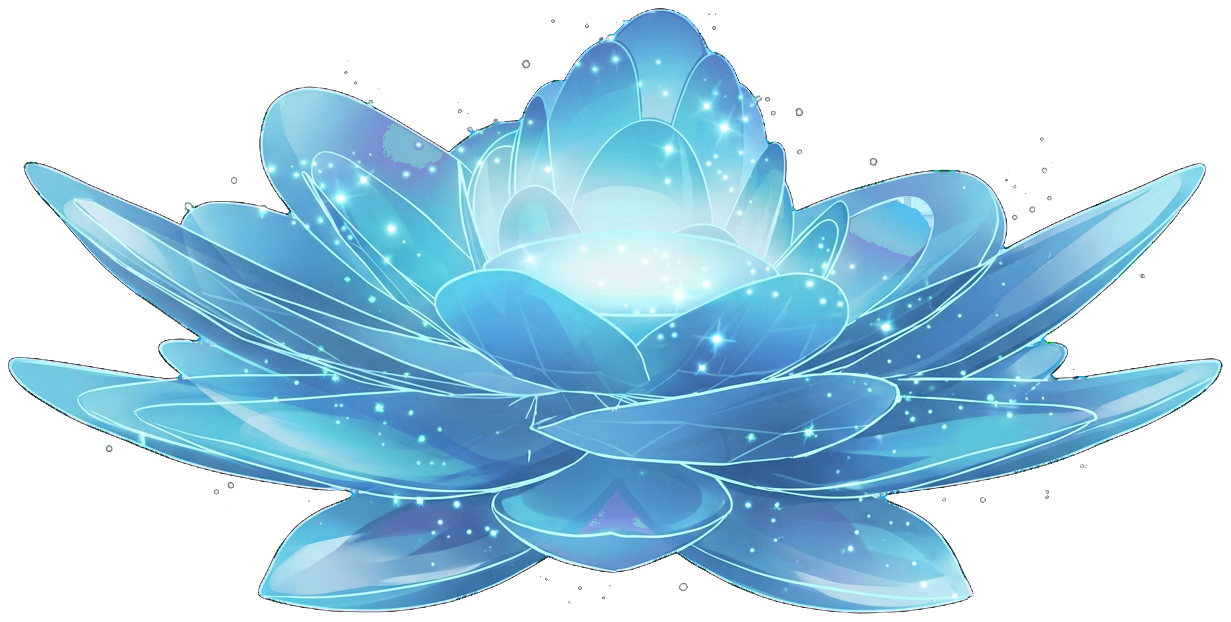
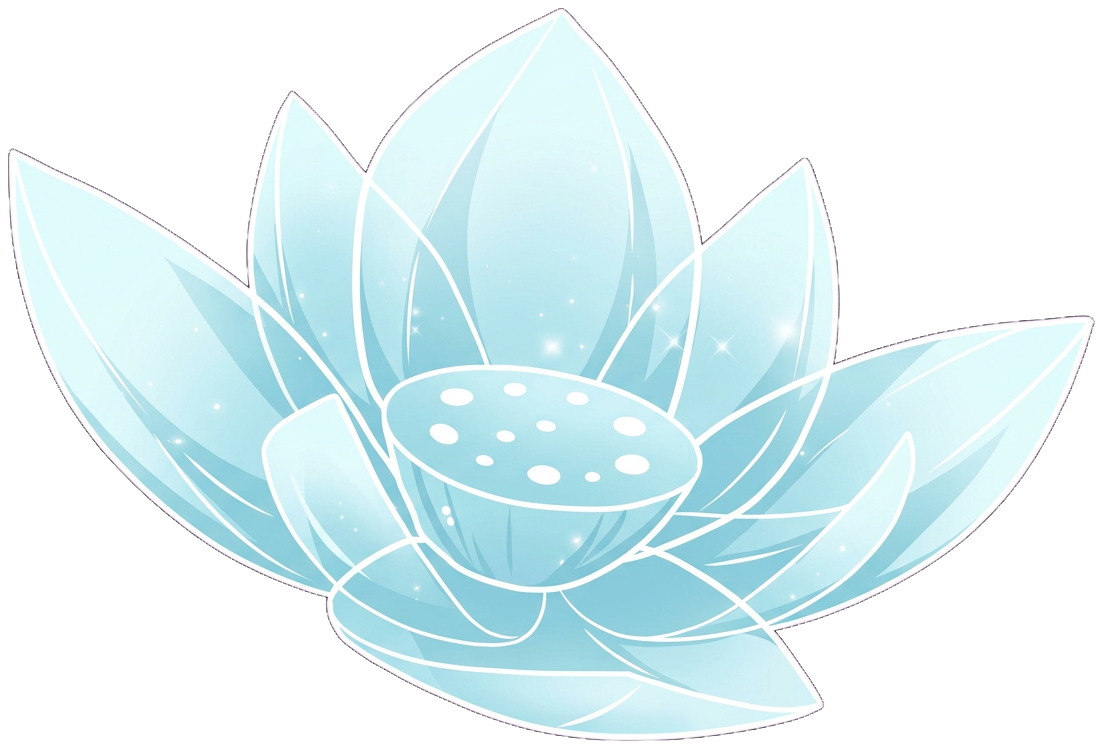
4A 核对：火种重画、洪辰雷神降临、心魔/狮王/天妖凰结论

diff --git a/dev/design/Boss形态清单_v2.md b/dev/design/Boss形态清单_v2.md
@@ -8,7 +8,7 @@
 | Boss | 漫画 | 形态 | 状态 |
 |---|---|---|---|
 | 暴雪魔猿 | 魔兽山脉 | 1 形态 e_ape（Boss 版） | ✅ |
-| 紫晶翼狮王 | 魔兽山脉 | 1 基础 b_lion；🔍 紫晶双翼腾空形态 | ✅ / 🔍 |
+| 紫晶翼狮王 | 魔兽山脉（27） | 1 基础 b_lion（本就带双翼）；27-04 暴走＝同一形态加紫晶火光 → 做特效，不另画 | ✅ |
 | 穆蛇（两战） | 25–30 | 1 人形 mushe | ✅ |
 | 加列奥 / 穆力 / 赫蒙 | 前期 | 各 1 人形 | ✅ |
 
@@ -17,7 +17,7 @@
 |---|---|---|---|
 | 海波东（冰封解除后） | — | 1 人形 haibodong_true | ✅ |
 | 美杜莎女王 | 47 / 80 / 88 / 137 | 3：蛇人女王 medusa_boss、人形 medusa、七彩吞天蟒 b_python | ✅✅✅ |
-| 青莲地心火 | 塔戈尔沙漠 | 🔍 火种形态（用户要求按漫画重画） | ⬜ |
+| 青莲地心火 | 塔戈尔沙漠（49） | 火种 b_fire_lotus 按 49-11 重画（杯状冰晶莲、圆莲蓬） | ✅ 待审 |
 | 古河 | — | 1 人形 guhe | ✅ |
 | 云山 | 164 前后 | 1 人形 b_yunshan + 魂殿黑影特效 fx_hundian_shadow（用户A） | ✅ |
 | 纳兰嫣然（三年之约） | — | 1 人形 nalan | ✅ |
@@ -26,7 +26,7 @@
 | Boss | 漫画 | 形态 | 状态 |
 |---|---|---|---|
 | 陨落心炎 | 122 / 146 / 152 | 3：塔底火种、金色火焰蛇龙、暴走火焰巨兽 | ✅✅✅ |
-| 心魔 | 🔍 | 漫画是否有此战待核对；无则删除 | 🔍 |
+| 心魔 | — | 已翻 121/122/126/152/156/157/165/168/193：漫画无“心魔”实体战（旧清单为自创黑化萧炎）→ 建议删除 | ❌ 待确认 |
 
 ## 第四章 · 黑角域 / 丹会前后
 | Boss | 漫画 | 形态 | 状态 |
@@ -39,7 +39,7 @@
 ## 第五章 · 中州
 | Boss | 漫画 | 形态 | 状态 |
 |---|---|---|---|
-| 洪辰 | 221 | 1 人形 hongchen；🔍 漫画“雷神降临”形态 | ✅ / 🔍 |
+| 洪辰 | 221–222 | 1 人形 hongchen；2 “雷神降临” hongchen_thunder（222-12/13/18：赤膊、胸前粉色雷纹、破袍、白腰带）；天雷锤另画；灭雷锤兽(222-21)做特效 | ✅ / ✅ 待审 |
 | 晨云 | 224 | 1 人形 chenyun | ✅ |
 | 洪天啸 | 224–228 | 1 人形 hongtianxiao | ✅ |
 | 费天（两战） | 229 | 1 人形 feitian | ✅ |
@@ -47,7 +47,7 @@
 | 翎泉 | 264 | 1 人形 lingquan | ✅ |
 | 曹颖（丹会） / 木骨 | — | 各 1 人形 | ✅ |
 | 摘星老鬼（三战） | — | 1 人形 zhaixing | ✅ |
-| 天妖凰二长老 | — | 🔍 是否已有对应立绘待查 | 🔍 |
+| 天妖凰二长老 | 319 | 无对应立绘。319 出现天妖凰族：白发红纹男(319-04，与萧炎交手)、红额印白须老者、黄袍长者二人(319-20)、白发头环女(疑凤清儿)、虎人/狼人 → 需整段扫 316–325 定身份 | ⬜ 待扫 |
 | 墨羽（九天尊，三战） | — | 1 人形 moyu | ✅ |
 | 花锦 / 妖花 / 蜃楼鬼尊 | 327 | 各 1 人形 huajin / yaohua / shenlou | ✅ |
 | 青厌（古龙岛偷袭） | 333 | 1 人形 qingyan；阈值→天妖傀碎裂剧情（用户4A） | ✅ |
@@ -90,7 +90,7 @@
 加列毕、穆力、狼王（已删）、穆蛇、纳兰嫣然、韩枫、魂殿护法、风尊者/剑尊者、天冥、雷尊者、费天、冰河、天蛇、各天尊、魂灭生、九幽地冥蟒、魂天帝“帝境法相”。
 
 ## 待定 B：需翻漫画核对的形态（🔍）
-紫晶翼狮王双翼、青莲地心火火种、心魔一战是否存在、洪辰雷神降临、天妖凰二长老立绘。
+已于 2026-09-28 核对完毕，结果见上表各行。
 
 ## 待定 C：尚未确认漫画里有没有这场战斗
 范老（血宗）、凤清儿（两战）、魂玉、人和子、石天等，见《萧炎战斗清单》⚠ 行，逐话扫漫画确认后再决定是否为 Boss。

diff --git a/dev/design/漫画复核进度.md b/dev/design/漫画复核进度.md
@@ -267,7 +267,9 @@
 | 青厌（古龙岛偷袭Boss，新） | qingyan | r122：333-08/11/18；墨绿长卷发、浅绿分叉龙角、尖耳、额绿宝石，蓝色高领项圈，白色羽边露肩短裙、腰侧蓝饰，蓝色长袖套，蓝色过膝靴；Boss（用户4A） | ✅ 用户通过 |
 | 祁幽（东龙岛长老，新） | qiyou | r122：332-16/17；棕肤、暗红分叉龙角、垂膝暗红褐长发、八字胡，紫色宽袖长袍、白色长披带红菱纹、红鳞纹高领金边、白鞋；剧情NPC（用户5A） | ✅ 用户通过 |
 | 西龙岛使者 XIAO AO（新） | xiaoao | r123：332-23 字幕“西龙岛 XIAO AO”(原著未名)；红角、背头短发、面疤、八字胡短须，红色龙鳞全身甲、紫色腰带、灰裤红胫甲；剧情NPC（用户5A） | ✅ 用户通过 |
-| 蛮岩（南龙岛长老，新） | manyan | r123：332-23 字幕“南龙岛 MAN YAN”；灰肤、灰背头、尖角、下巴黑纹，黑毛皮披肩、胸前龙头骨饰、深蓝金边上衣、蓝灰刺护臂、金腰饰+獠牙项链；下半身漫画未画→传统蛮族甲裙、毛边靴；剧情NPC（用户5A） | ✅ 用户通过 |
+| 蛮岩（南龙岛长老，新） | manyan | r123：332-23 字幕“南龙岛 MAN YAN”；灰肤、灰背头、尖角、下巴黑纹，黑毛皮披肩、胸前龙头骨饰、深蓝金边上衣、蓝灰刺护臂、金腰饰+獠牙项链；下半身漫画未画→传统蛮族甲裙、毛边靴；剧情NPC（用户5A） | ✅ 用户通过 || 洪辰·雷神降临 | hongchen_thunder | 222-12/13/18（r124） | 🆕 按漫画新画，待审 |
+| 青莲地心火·火种 | b_fire_lotus | 49-11（r124） | 🔁 按漫画重画，待审 |
+
 ## 用户决定（2026-09-27）
 - 凌影：选A——用第63话蒙面兜帽样子。
 - 云山第二形态：选A——人物图不变，半血时身后冒出魂殿黑影（特效层），招式变强。
@@ -289,3 +291,5 @@
 - 用户决定(331-335/461 补扫)：1A 小伊通过(保留两侧小火苗)；2A 帝品雏丹通过；4A 青厌偷袭=Boss战，阈值后剧情：天妖傀挡击碎裂、萧炎受伤；5A 祁幽长老、西龙岛使者、蛮岩长老均画为剧情NPC；7A 烛离通过；8A 461拄龙杖长老即烛离，不另画烛火。
 - 用户决定(332/333)：青厌、祁幽、西龙岛使者 通过；蛮岩及西龙岛使者命名待答。
 - 用户决定(Boss清单v2)：1A 蛮岩通过；2A 西龙岛使者游戏内称“西龙岛使者”；3 旧“自创二阶段”按Boss重要程度分级处理——普通Boss加更好的特效表现，重要Boss做更好的设计，特别重要的Boss可加更多阶段/更强画面（先列分级方案给用户确认）；4A 逐个翻漫画核对5项🔍，有才画；5A 下一步逐话核对萧炎战斗清单⚠对手。
+
+- 2026-09-28 4A 核对：狮王双翼本有、暴走做特效；火种重画；心魔漫画无→建议删；洪辰雷神降临新画；天妖凰族无立绘，需扫 316–325。
